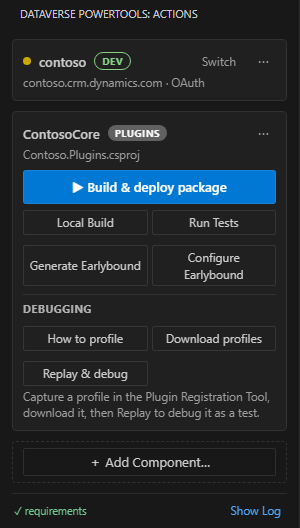
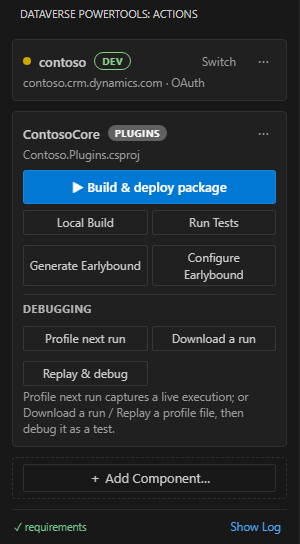
docs: in-extension one-click plugin profiling (README, walkthroughs, panel screenshot)
README + walkthroughs describe Profile-next-run (one-click capture on Windows) and refresh
the plugin-menu screenshot to the new Debugging block (Profile next run / Download a run /
Replay & debug). Solution/webresource shots re-cropped for parity.

diff --git a/README.md b/README.md
@@ -28,8 +28,9 @@ one activity bar. Cross-platform, powered by the Power Platform CLI and .NET SDK
 - 🧪 **Testing built in** — Jest + xrm-mock for web resources, DataverseUnitTest for
   plugins.
 - 🐞 **Real debugging** — hot-reload your local web-resource bundle inside the live
-  model-driven app with breakpoints, and replay a captured plug-in profile as a unit
-  test you F5-debug in VS Code with the exact server-side context.
+  model-driven app with breakpoints, and **profile a plug-in's next run in one click**
+  (Windows) then replay it as a unit test you F5-debug in VS Code with the exact
+  server-side context.
 - 💪 **Strongly typed** — generate `Xrm` typings and early-bound classes from your
   environment.
 - 🖥 **Cross-platform** — Windows, macOS, and Linux, on `pac` and `dotnet`.
@@ -39,7 +40,7 @@ one activity bar. Cross-platform, powered by the Power Platform CLI and .NET SDK
 | Plugins | Web Resources | Solutions |
 | :---: | :---: | :---: |
 | <img src="media/plugin-menu.png" width="230" /> | <img src="media/webresource-menu.png" width="230" /> | <img src="media/solution-menu.png" width="230" /> |
-| Create classes & workflows, register steps with CodeLens, generate early-bound types, build with `dotnet`, deploy as a plugin package, read plugin trace logs in-editor, replay a captured profile as a unit test you F5-debug in VS Code, unit test with DataverseUnitTest. | Write TypeScript, bundle with webpack (or emit one file per web resource), deploy with automatic form-event registration, debug your local bundle live in the real app with hot reload, generate strongly-typed `Xrm` typings, unit test with Jest + xrm-mock. | Export, unpack, pack and import solutions with `pac` — ready for source control and CI/CD. Power Pages sites round-trip with download/upload too. |
+| Create classes & workflows, register steps with CodeLens, generate early-bound types, build with `dotnet`, deploy as a plugin package, read plugin trace logs in-editor, profile a plug-in's next run and replay it as a unit test you F5-debug in VS Code, unit test with DataverseUnitTest. | Write TypeScript, bundle with webpack (or emit one file per web resource), deploy with automatic form-event registration, debug your local bundle live in the real app with hot reload, generate strongly-typed `Xrm` typings, unit test with Jest + xrm-mock. | Export, unpack, pack and import solutions with `pac` — ready for source control and CI/CD. Power Pages sites round-trip with download/upload too. |
 | **[Learn more →](https://github.com/pete-mc/dataverse-powertools/wiki/Plugins)** | **[Learn more →](https://github.com/pete-mc/dataverse-powertools/wiki/Webresources)** | **[Learn more →](https://github.com/pete-mc/dataverse-powertools/wiki/Solutions)** |
 
 ## Get started in minutes

diff --git a/media/walkthrough/deploy.md b/media/walkthrough/deploy.md
@@ -7,7 +7,7 @@ From the **Actions panel**:
 - **Solutions** — *Extract*, *Pack* and *Deploy* round-trip the solution between Dataverse and source control.
 - **Portals** — *Select site* once, then *Download from your org* / *Upload* round-trip your Power Pages site.
 
-Working on plugins? **View Plugin Trace Logs** (plugin card ⋯) shows the latest server-side traces — metadata, exceptions and your `ITracingService` output — right in the editor. To step through the code itself, the plugin card's **Debugging** section turns a captured profile into a unit test you F5-debug in VS Code (capture it once in the Plugin Registration Tool, then *Download* and *Replay*).
+Working on plugins? **View Plugin Trace Logs** (plugin card ⋯) shows the latest server-side traces — metadata, exceptions and your `ITracingService` output — right in the editor. To step through the code itself, the plugin card's **Debugging** section turns a captured run into a unit test you F5-debug in VS Code: on Windows, **Profile next run** captures a live execution in one click; then **Replay & debug** generates the test. (On macOS/Linux, capture once in the Plugin Registration Tool, then *Download a run* and *Replay*.)
 
 Web resources have live debugging too: **Debug Web Resources (local)** runs your local bundle inside the real model-driven app with hot reload, so breakpoints in your TypeScript bind against the running form.
 

diff --git a/media/walkthrough/tour.md b/media/walkthrough/tour.md
@@ -4,7 +4,7 @@
 - **Testing side bar** — plugin (.NET) and web-resource (Jest) tests appear in VS Code's native Test Explorer with run/debug support.
 - **Explorer right-click menu** — create plugin classes, workflow classes, web-resource classes and tests next to the file you clicked.
 - **CodeLens in C# files** — add or update plugin step registration decorations inline, or *Profile & debug…* to jump into the replay-debugging flow.
-- **Debugging** — the plugin card replays a captured profile as a unit test you F5-debug in VS Code; **Debug Web Resources (local)** hot-reloads your local bundle inside the live app with breakpoints.
+- **Debugging** — the plugin card's **Profile next run** captures a live plug-in execution (one click on Windows) and replays it as a unit test you F5-debug in VS Code; **Debug Web Resources (local)** hot-reloads your local bundle inside the live app with breakpoints.
 - **Status bar** — the `$(database)` item shows the connected environment; click it to open the panel.
 
 The output channel (*Show Log* in the panel) is the first place to look when something misbehaves.
